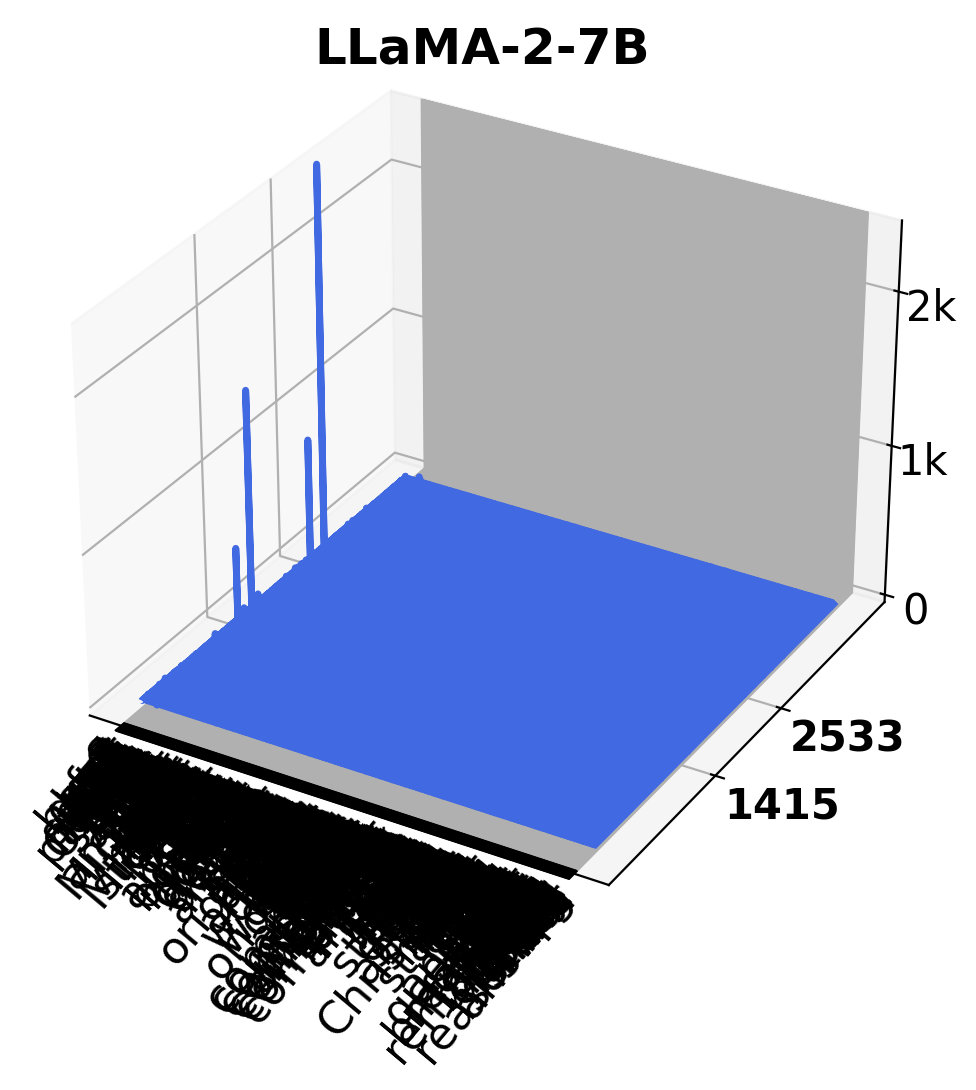
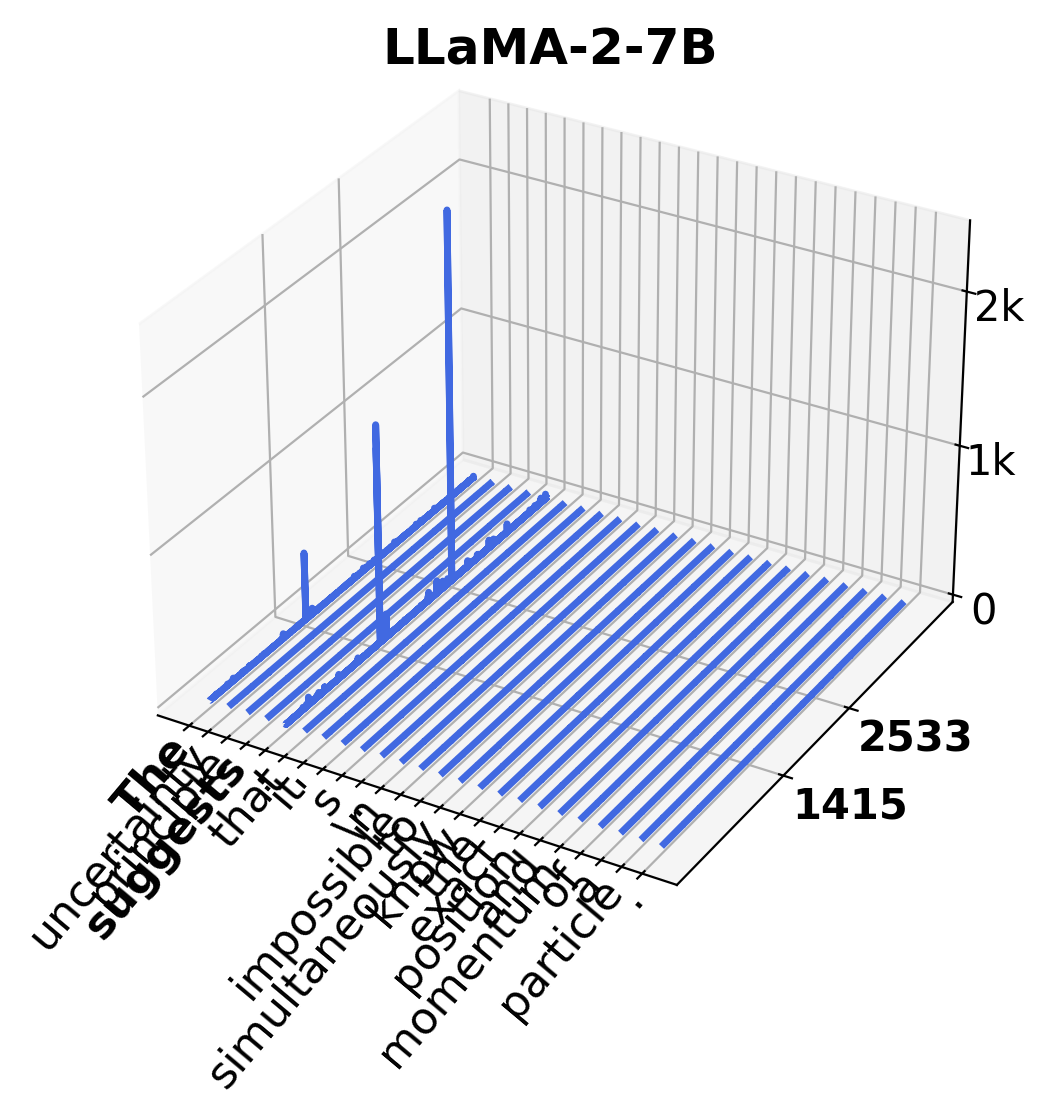
differences between .\n and . and \n

diff --git a/main_llm.py b/main_llm.py
@@ -67,6 +67,13 @@ if __name__ == "__main__":
             "Spring flowers . \n bloom brightly.",
             "Spring flowers .\n .\n bloom brightly.",
             "Spring . flowers .\n .\n .\n bloom brightly.",
+            "The uncertainty principle suggests. that it's .\n impossible to simultaneously know the exact position and momentum of a particle.",
+            "The uncertainty principle suggests. that it's impossible to simultaneously .\n know the exact position and momentum of a particle.",
+            "The uncertainty principle suggests that it's impossible to simultaneously know the exact position and momentum of a particle.",
+            "The uncertainty principle suggests that it's impossible to simultaneously know the exact position and .\n momentum of a particle.",
+            "The uncertainty principle suggests that it's \n impossible to simultaneously know the exact position and momentum of a particle.",
+            "The uncertainty principle suggests that it's impossible to simultaneously \n know the exact position and momentum of a particle.",
+            "The uncertainty principle suggests. that it's impossible to simultaneously know the exact position and momentum of a particle.\n",
             " I have 8 demos for you:Q: Leah had 32 chocolates and her sister had 42. If they ate 35, how many pieces do they have left in total?\nA: Originally, Leah had 32 chocolates. Her sister had 42. So in total they had 32 + 42 = 74. After eating 35, they had 74 - 35 = 39. So the answer is :39\\\\Q: Michael had 58 golf balls. On tuesday, he lost 23 golf balls. On wednesday, he lost 2 more. How many golf balls did he have at the end of wednesday?\nA: Michael started with 58 golf balls. After losing 23 on tuesday, he had 58 - 23 = 35. After losing 2 more, he had 35 - 2 = 33 golf balls. So the answer is :33\\\\Q: Olivia has $23. She bought five bagels for $3 each. How much money does she have left?\nA: Olivia had 23 dollars. 5 bagels for 3 dollars each will be 5 x 3 = 15 dollars. So she has 23 - 15 dollars left. 23 - 15 is 8. So the answer is :8\\\\Q: If there are 3 cars in the parking lot and 2 more cars arrive, how many cars are in the parking lot?\nA: There are originally 3 cars. 2 more cars arrive. 3 + 2 = 5. So the answer is :5\\\\Q: There are 15 trees in the grove. Grove workers will plant trees in the grove today. After they are done, there will be 21 trees. How many trees did the grove workers plant today?\nA: There are 15 trees originally. Then there were 21 trees after some more were planted. So there must have been 21 - 15 = 6. So the answer is :6\\\\Q: There were nine computers in the server room. Five more computers were installed each day, from monday to thursday. How many computers are now in the server room?\nA: There were originally 9 computers. For each of 4 days, 5 more computers were added. So 5 * 4 = 20 computers were added. 9 + 20 is 29. So the answer is :29\\\\Q: Jason had 20 lollipops. He gave Denny some lollipops. Now Jason has 12 lollipops. How many lollipops did Jason give to Denny?\nA: Jason started with 20 lollipops. Then he had 12 after giving some to Denny. So he gave Denny 20 - 12 = 8. So the answer is :8\\\\Q: Shawn has five toys. For Christmas, he got two toys each from his mom and dad. How many toys does he have now?\nA: Shawn started with 5 toys. If he got 2 toys each from his mom and dad, then that is 4 more toys. 5 + 4 = 9. So the answer is :9\\\\And here is the question for you:Janet\u2019s ducks lay 16 eggs per day. She eats three for breakfast every morning and bakes muffins for her friends every day with four. She sells the remainder at the farmers' market daily for $2 per fresh duck egg. How much in dollars does she make every day at the farmers' market? You can think step by step.First tell me the reasoning steps. Then tell me the answer."
 
         ]

diff --git a/lib/plot_utils_llm.py b/lib/plot_utils_llm.py
@@ -5,6 +5,8 @@ import matplotlib.pyplot as plt
 import numpy as np
 import seaborn as sns
 
+plt.rcParams['figure.max_open_warning'] = 30  # 设置为30或更高的数字
+
 matplotlib.rcParams['pgf.texsystem'] = 'pdflatex'
 matplotlib.rcParams.update({
     'font.size': 18,
